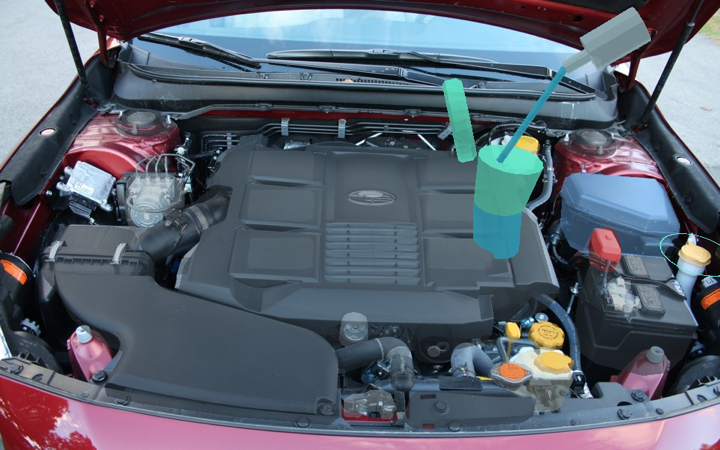
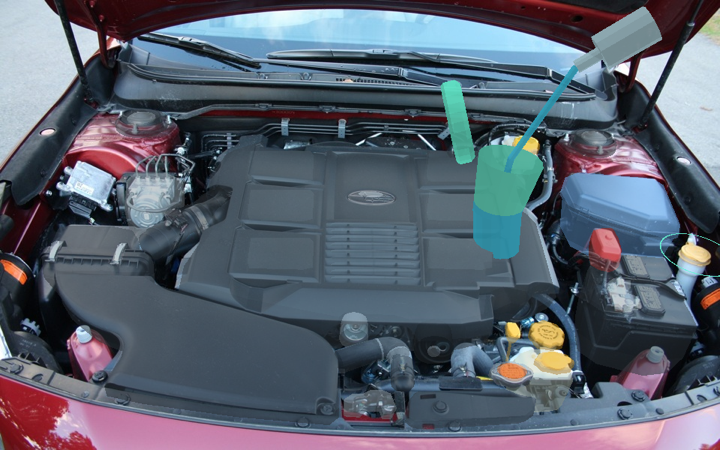
Expose the open filler neck and keep inspection playback in view

Changed region(s): [[0.6111, 0.0, 0.9167, 0.4044]]

diff --git a/app/modules/capo-ar/android/src/main/java/expo/modules/capoar/PartInspection.kt b/app/modules/capo-ar/android/src/main/java/expo/modules/capoar/PartInspection.kt
@@ -1,6 +1,7 @@
 package expo.modules.capoar
 
 import kotlin.math.PI
+import kotlin.math.atan2
 import kotlin.math.cos
 import kotlin.math.sin
 
@@ -34,7 +35,9 @@ internal class InspectionPart(
     .flatMap { listOf(it.a, it.b, it.c) }.distinct() else emptyList()
   private val bottom = neck.minOfOrNull { it.y } ?: 0f
   private val rim = neck.maxOfOrNull { it.y } ?: 0f
-  private val mouth = neck.filter { it.y > rim - .003f }.let { ring ->
+  // The bundled neck has three vertex rings. Its upper ring is tilted relative to asset Y.
+  private val mouthRing = neck.filter { it.y > rim - (rim - bottom) * .2f }.toSet()
+  private val mouth = mouthRing.let { ring ->
     if (ring.isEmpty()) part.center else ring.reduce(EnginePoint::plus) * (1f / ring.size)
   }
   private val hinge = EnginePoint(points.minOf { it.x }, mouth.y, mouth.z)
@@ -69,7 +72,10 @@ internal class InspectionPart(
       return hinge + EnginePoint(d.x*cosine - d.y*sine, d.x*sine + d.y*cosine, d.z)
     }
     val surface = ArrayList<ModelTriangle>(source.size)
+    val waterline = mutableSetOf<EnginePoint>()
     for (triangle in source) {
+      if (open > 0f && triangle.primitive == 0 &&
+        triangle.a in mouthRing && triangle.b in mouthRing && triangle.c in mouthRing) continue
       fun vertex(p: EnginePoint) = place(if (open > 0 && triangle.primitive == 1) lid(p) else p)
       if (refill && time > 4.35f && triangle.primitive == 0 && level > bottom) {
         // Split at the level so it rises continuously even on long, sparsely tessellated faces.
@@ -78,7 +84,13 @@ internal class InspectionPart(
           val polygon = ArrayList<EnginePoint>(4)
           var a = vertices.last()
           for (b in vertices) {
-            if ((a.y < level) != (b.y < level)) polygon.add(a + (b-a)*((level-a.y)/(b.y-a.y)))
+            if ((a.y < level) != (b.y < level)) {
+              val low = if (a.y < b.y) a else b
+              val high = if (a.y < b.y) b else a
+              val crossing = low + (high-low)*((level-low.y)/(high.y-low.y))
+              polygon.add(crossing)
+              if (filled) waterline.add(crossing)
+            }
             if ((b.y < level) == filled) polygon.add(b)
             a = b
           }
@@ -86,6 +98,14 @@ internal class InspectionPart(
             place(polygon[i]), place(polygon[i+1]), index, if (filled) liquid else triangle.rgb))
         }
       } else surface.add(triangle.copy(a = vertex(triangle.a), b = vertex(triangle.b), c = vertex(triangle.c), part = index))
+    }
+    var liquidCenter = mouth.copy(y = bottom)
+    if (waterline.size >= 3) {
+      liquidCenter = waterline.reduce(EnginePoint::plus) * (1f / waterline.size)
+      val boundary = waterline.sortedBy { atan2(it.z-liquidCenter.z, it.x-liquidCenter.x) }
+      val center = place(liquidCenter)
+      for (i in boundary.indices) surface.add(ModelTriangle(center, place(boundary[i]),
+        place(boundary[(i+1) % boundary.size]), index, liquid))
     }
     val effects = mutableListOf<ModelTriangle>()
     fun quad(a: EnginePoint, b: EnginePoint, c: EnginePoint, d: EnginePoint, rgb: FloatArray) {
@@ -119,6 +139,7 @@ internal class InspectionPart(
       tube(spout,shoulder,.004f,bottle)
       tube(shoulder,shoulder+EnginePoint(.025f,.019f,0f),.011f,bottle)
       tube(spout, spout + (mouth-spout)*pour, .0022f*pour, liquid)
+      if (pour >= .99f && (liquidCenter-mouth).length() > .002f) tube(mouth, liquidCenter, .0022f, liquid)
     }
     return InspectionFrame(index, place(part.center), surface, effects, brightness)
   }

diff --git a/app/modules/capo-ar/android/src/test/java/expo/modules/capoar/PartInspectionTest.kt b/app/modules/capo-ar/android/src/test/java/expo/modules/capoar/PartInspectionTest.kt
@@ -34,4 +34,28 @@ class PartInspectionTest {
     assertEquals(origin,part.frame(InspectionAction.REFILL,9.8f)!!.center)
     assertNull(part.frame(InspectionAction.REFILL,10f))
   }
+
+  @Test fun aSealedNeckOpensAndItsLiquidSurfaceRises() {
+    val top = listOf(origin, origin + EnginePoint(.04f,0f,0f), origin + EnginePoint(0f,0f,.04f))
+    val base = top.map { it + EnginePoint(0f,-.1f,0f) }
+    fun face(a: EnginePoint, b: EnginePoint, c: EnginePoint) = neck.copy(a=a, b=b, c=c)
+    val mesh = buildList {
+      add(face(top[0],top[1],top[2]))
+      add(face(base[0],base[1],base[2]))
+      for (i in top.indices) {
+        val j = (i+1) % top.size
+        add(face(base[i],base[j],top[j]))
+        add(face(base[i],top[j],top[i]))
+      }
+    }
+    val part = InspectionPart(ModelPart("washer",origin),0,mesh) { it }
+    val closed = part.frame(InspectionAction.REFILL,3.12f)!!
+    val opened = part.frame(InspectionAction.REFILL,4.1f)!!
+    assertEquals(closed.surface.size-1,opened.surface.size)
+    fun surfaceHeight(time: Float) = part.frame(InspectionAction.REFILL,time)!!.surface.first {
+      it.rgb[2] > it.rgb[1] && kotlin.math.abs(it.a.y-it.b.y) < .00001f &&
+        kotlin.math.abs(it.b.y-it.c.y) < .00001f && it.a.y > closed.surface[1].a.y + .001f
+    }.a.y
+    assertTrue(surfaceHeight(5.8f) > surfaceHeight(4.8f))
+  }
 }

diff --git a/app/src/escaner/EscanerAR.tsx b/app/src/escaner/EscanerAR.tsx
@@ -534,8 +534,10 @@ export default function EscanerAR({ vehicle, initialPart, initialAction }: { veh
               <ScrollView horizontal showsHorizontalScrollIndicator={false} style={styles.parts}>
                 {inspectionActions(selected).map((action) => (
                   <Pressable key={action} accessibilityRole="button" style={styles.part}
-                    onPress={() => void ar.current?.playPartAction(selected, action)
-                      .catch(() => setAviso('No se pudo mostrar la acción.'))}>
+                    onPress={() => {
+                      controls.setMode('compact');
+                      void ar.current?.playPartAction(selected, action).catch(() => setAviso('No se pudo mostrar la acción.'));
+                    }}>
                     <Text style={tipo.nota}>{inspectionLabels[action]}</Text>
                   </Pressable>
                 ))}

diff --git a/docs/engine-map-style.md b/docs/engine-map-style.md
@@ -11,3 +11,15 @@ The Outback 2016 3.6R uses the registered EZ36 mesh. Keep the selected part’s 
 The scanner exposes the actions after registration in the selected part’s details. The chat tool can supply an optional action when creating a camera card. Opening the card plays the action once after registration. Existing cards keep their original behavior. The fluid level is an illustration. The registration maps the visible filler neck and cap.
 
 For another engine, bind each action to that variant’s part identifier, mesh, anchor and supported mechanism. Keep source geometry and registration immutable. Apply the inspection pose consistently to rendering, picking and the projected guide. Check the first and last pose, tracking loss, re-registration and selection changes. Validate the placement on the target vehicle.
+
+## Reference viewer tokens
+
+| Element | Reference value |
+| --- | --- |
+| Scene, panel and control backgrounds | `#10171d`, `#192228`, `#26343d` |
+| Border and pressed control | `#51616b`, `#12685e` |
+| Primary, secondary and active step text | `#edf2f4`, `#cbd7dc`, `#ffe79e` |
+| Washer, dipstick and fuse box accents | `#51e3c1`, `#ffd267`, `#79b9ff` |
+| Reference typography and controls | System sans serif, 16 px controls, 14 px detail, 6 px corners, 8 px spacing |
+
+On Android the live camera supplies the background and the surrounding scanner retains its native theme. Collapse the details panel during manual playback. Keep labels clear of the moving part, opening and stream. Preserve a visible source marker during elevation.
